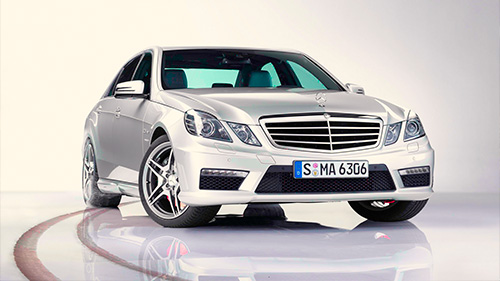
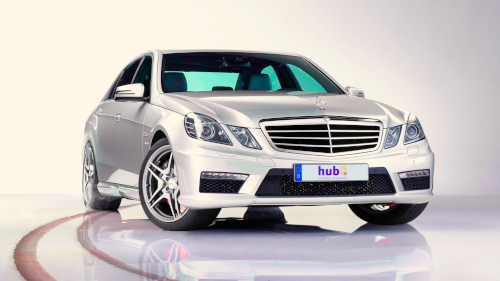
Alterando imagem da consulta veicular e adicionando link ao Section Scroller

Changed region(s): [[0.03, 0.1423, 0.87, 1.0], [0.03, 0.911, 0.12, 1.0], [0.84, 0.8256, 0.87, 0.8541]]

diff --git a/index.html b/index.html
@@ -214,6 +214,12 @@
                       </span>
                       <div class="title">Home</div>
                    </a>
+                   <a class="sectionNavLink " href="./servicos/consulta-veicular.html">
+                      <span class="icon">
+                        <i class="fa-solid fa-car"></i>
+                      </span>
+                      <div class="title">Consulta Veicular</div>
+                   </a>
                    <a class="sectionNavLink " href="./servicos/analise-de-credito.html">
                       <span class="icon">
                         <i class="fa-solid fa-magnifying-glass"></i>

diff --git a/servicos/analise-de-credito.html b/servicos/analise-de-credito.html
@@ -337,6 +337,12 @@
                     </span>
                     <div class="title">Home</div>
                  </a>
+                 <a class="sectionNavLink " href="./consulta-veicular.html">
+                     <span class="icon">
+                     <i class="fa-solid fa-car"></i>
+                     </span>
+                     <div class="title">Consulta Veicular</div>
+                  </a>
                  <a class="sectionNavLink " href="./recuperacao-de-recebiveis.html">
                     <span class="icon">
                       <i class="fa-solid fa-calculator"></i>

diff --git a/servicos/recuperacao-de-recebiveis.html b/servicos/recuperacao-de-recebiveis.html
@@ -448,6 +448,12 @@
                     </span>
                     <div class="title">Home</div>
                  </a>
+                 <a class="sectionNavLink " href="./consulta-veicular.html">
+                  <span class="icon">
+                  <i class="fa-solid fa-car"></i>
+                  </span>
+                  <div class="title">Consulta Veicular</div>
+               </a>
                  <a class="sectionNavLink " href="./recuperacao-de-recebiveis.html">
                     <span class="icon">
                       <i class="fa-solid fa-calculator"></i>

diff --git a/servicos/protesto-de-titulos.html b/servicos/protesto-de-titulos.html
@@ -454,6 +454,12 @@
                     </span>
                     <div class="title">Home</div>
                  </a>
+                 <a class="sectionNavLink " href="./consulta-veicular.html">
+                  <span class="icon">
+                  <i class="fa-solid fa-car"></i>
+                  </span>
+                  <div class="title">Consulta Veicular</div>
+               </a>
                  <a class="sectionNavLink " href="./analise-de-credito.html">
                     <span class="icon">
                       <i class="fa-solid fa-magnifying-glass"></i>

diff --git a/assets/css/styles.css b/assets/css/styles.css
@@ -3452,6 +3452,8 @@ footer .footerBrand {
 
     .ServiceInfo {
         width: 100%;
+        margin-left: 0px;
+        margin-right: 0px;
     }
 
     .ServiceInfo .serviceInfoTitle {
